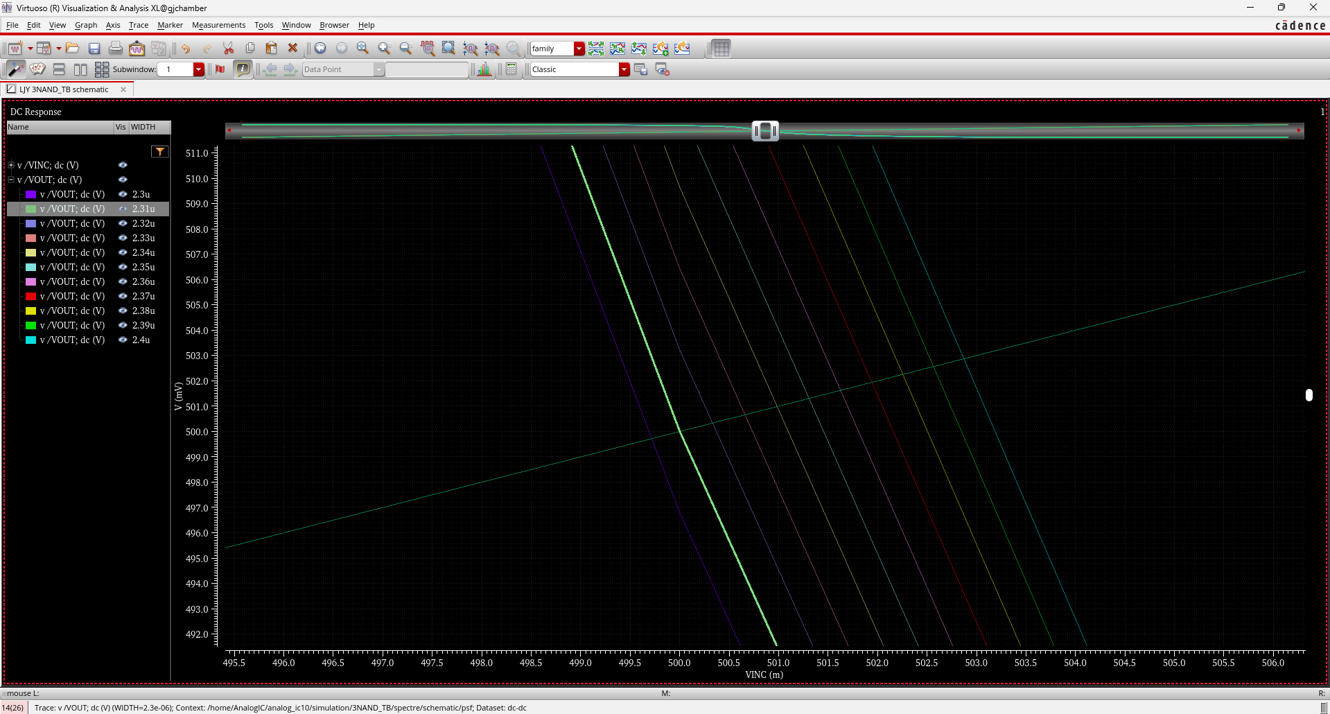
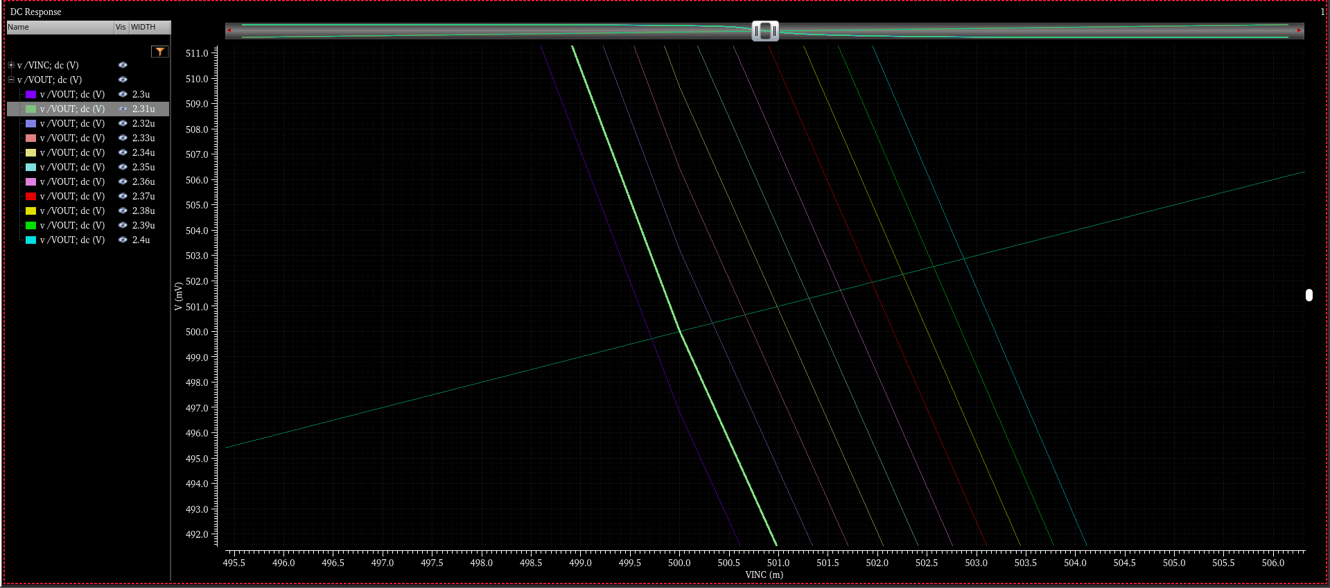
Add 3-input NAND gate section to README

diff --git a/README.md b/README.md
@@ -92,6 +92,38 @@ Size : 1.36um x 5.6um
 
 ### 3-input NAND Gate
 
+<h3 align="center">3-input NAND Gate 회로 구성</h3>
+
+<p align="center">
+  <img src="img/3NAND_SCH.png" width="60%">
+</p>
+
+<h3 align="center">Symbol &amp; Test Bench</h3>
+
+<p align="center">
+  <img src="img/3NAND_TB.png" width="90%">
+</p>
+
+<h3 align="center">Simulation</h3>
+
+<p align="center">
+  <img src="img/3NAND_SIM.png" width="90%">
+</p>
+
+<p align="center">
+PMOS Width 시뮬레이션한 결과, <b>2.31u</b>일 때 가장 안정적으로 동작
+</p>
+
+<h3 align="center">Layout</h3>
+
+<p align="center">
+  <img src="img/3NAND_LAY.png" width="45%">
+</p>
+
+<p align="center">
+Size : 1.78um x 5.62um
+</p>
+
 ### 4-input NAND Gate
 
 ## 3. NOR Gate
